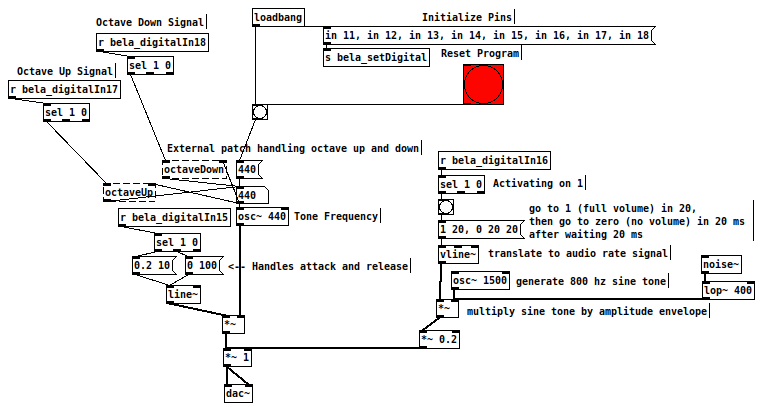
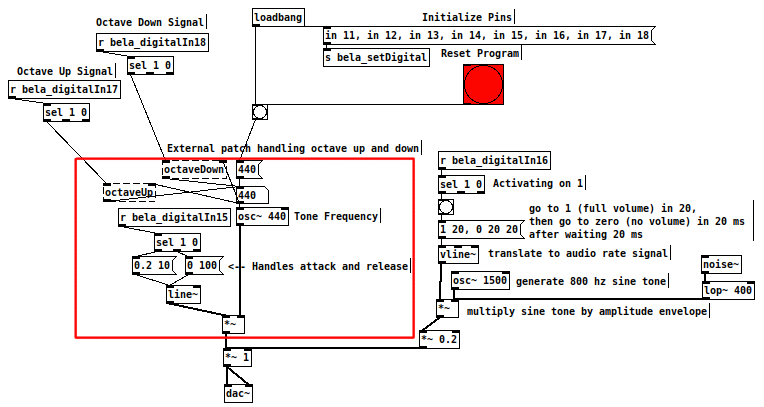
Fixed pd image and caption

Changed region(s): [[0.0903, 0.3833, 0.5419, 0.855]]

diff --git a/include/Implemention.tex b/include/Implemention.tex
@@ -70,7 +70,7 @@ void writeSegments() {
 	\begin{figure}[H]
 		\centering
 		\includegraphics[width=1\linewidth]{figure/Implementation/pureDataPatch}
-		\caption{Figure showing the main Pure Data patch for the prototype}
+		\caption{Figure showing a snippet of the main Pure Data patch for the prototype. The red square is how a tone(A) is handled. This section is repeated throughout the rest of the tones.}
 		\label{fig:pdPatch}
 	\end{figure}
 	\noindent
